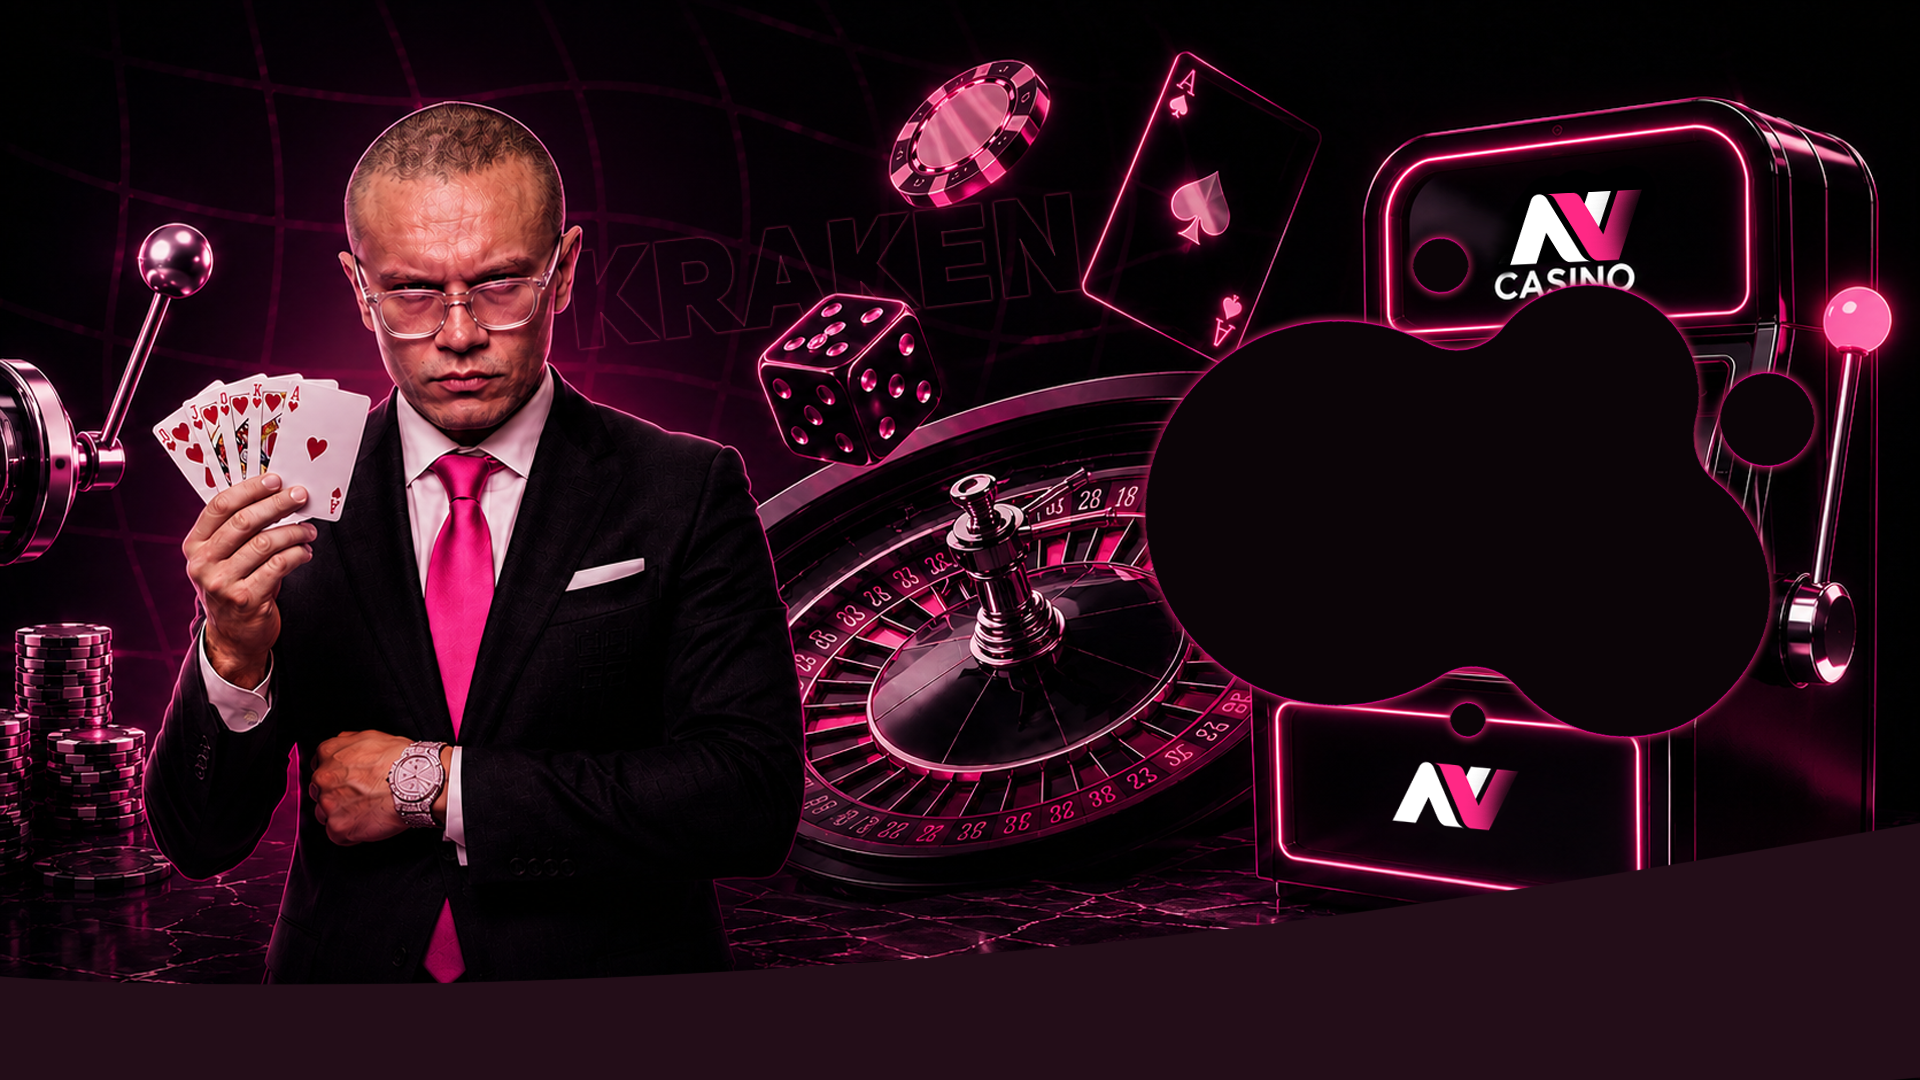
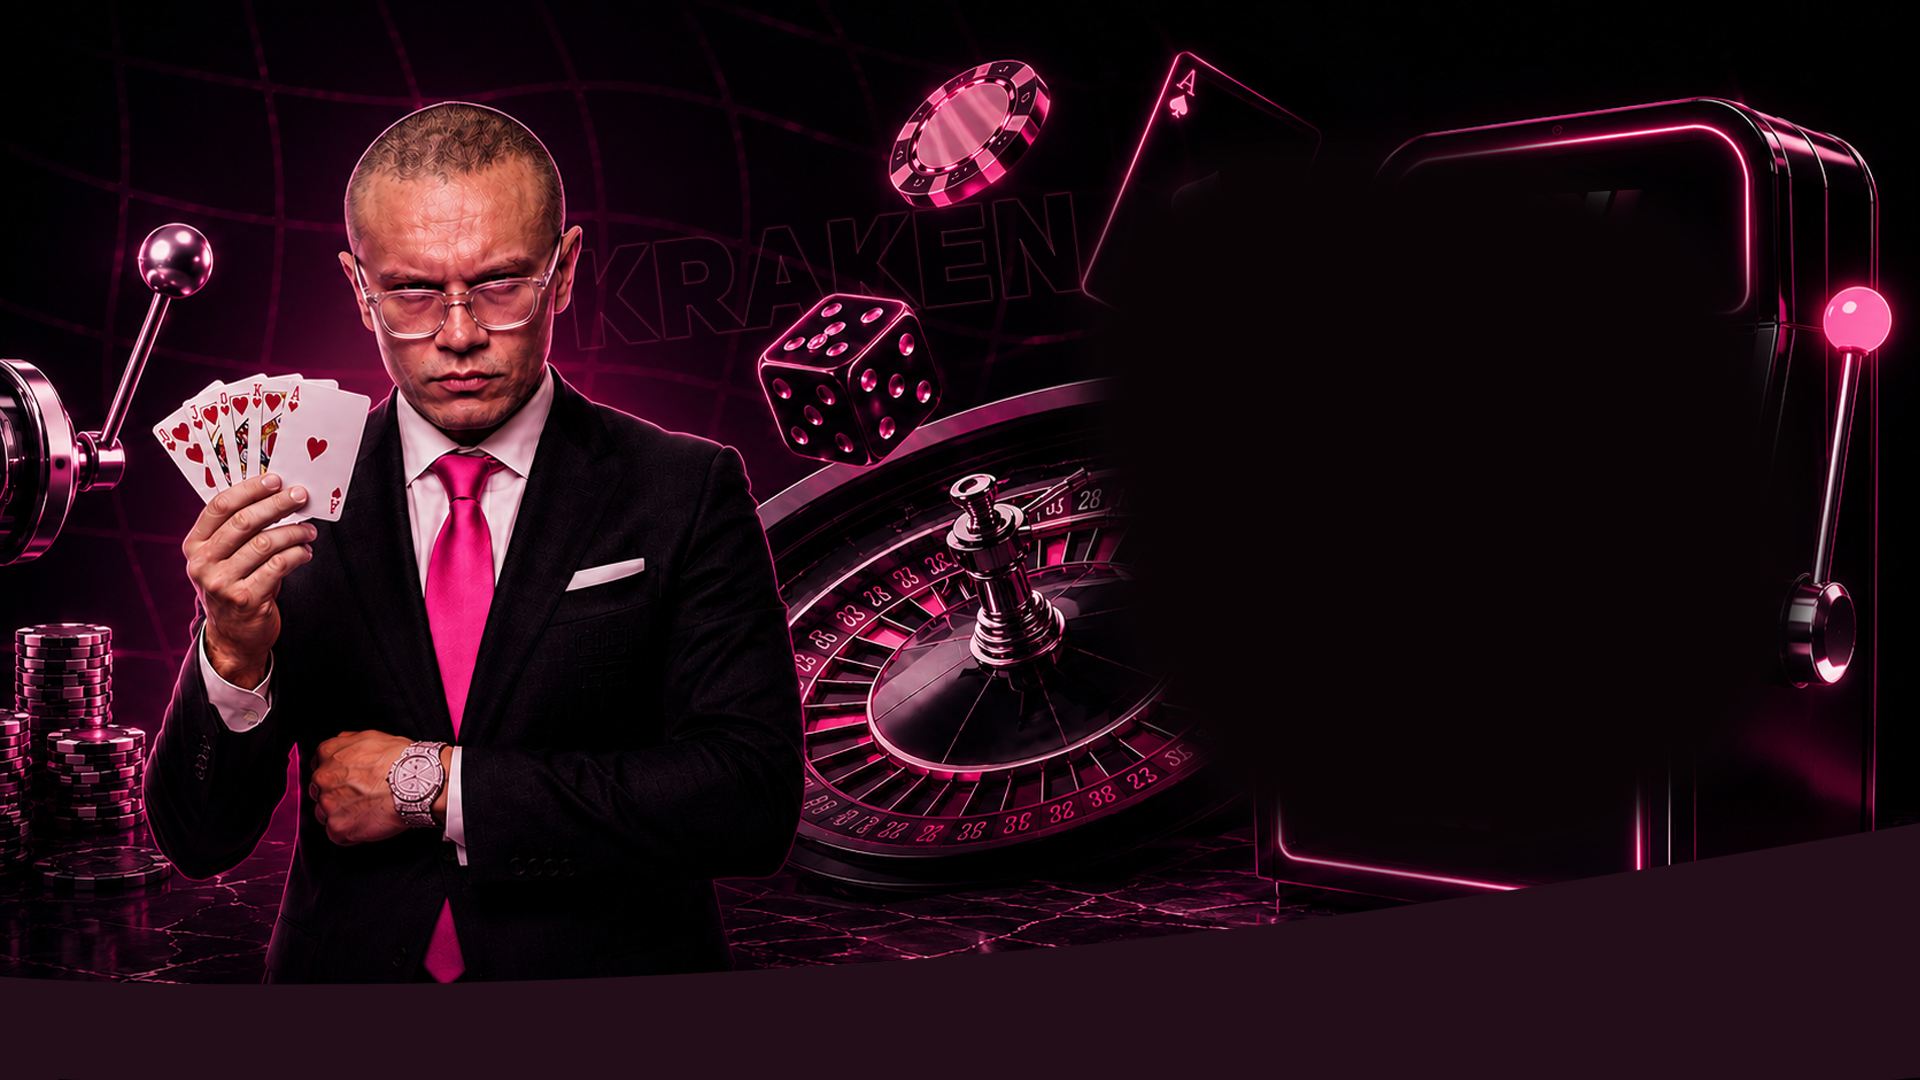
Add files via upload

diff --git a/index.html b/index.html
@@ -145,40 +145,18 @@
     /* ========= BOX BONUSOWY STYL CZARNO-ROZOWY ========= */
     .banner-bonus-box {
       position: absolute;
-      right: 2%;
-      top: 45%;
-      transform: translateY(-50%) rotate(-4deg);
+      right: -2.2%;
+      top: 10%;
       z-index: 20;
-      backdrop-filter: blur(20px);
-      background: rgba(0,0,0,0.75);
-      border: 2px solid #ff2885;
-      box-shadow: 0 0 35px rgba(255,40,133,0.4);
       padding: 2rem 1.5rem;
       border-radius: 2rem;
       text-align: center;
-      width: 340px;
+      width: 1040px;
       display: flex;
       flex-direction: column;
       gap: 1.4rem;
       text-transform: uppercase;
-    }
-
-    .banner-bonus-box:hover {
-      transform: translateY(-50%) scale(1.02) rotate(-3deg);
-      border-color: #ff66b5;
-      box-shadow: 0 0 45px rgba(255,40,133,0.7);
-    }
-
-    .banner-bonus-title {
-      font-size: 1.4rem;
-      font-weight: 900;
-      background: linear-gradient(135deg, #ffffff, #ff2885);
-      -webkit-background-clip: text;
-      background-clip: text;
-      color: transparent;
-      letter-spacing: 2px;
       cursor: pointer;
-      text-shadow: 0 0 8px rgba(255,40,133,0.5);
     }
 
     @media (max-width: 1150px) {
@@ -313,6 +291,8 @@
     .dashed-box {
       opacity: 1;
       background: rgba(0, 0, 0, 0.7);
+      background-image: url("./ruletka.png");
+      background-size: 100% 100%;
       backdrop-filter: blur(18px);
       border-radius: 2rem;
       padding: 2rem 1.8rem;
@@ -780,9 +760,7 @@
   <div class="banner-wrapper">
     <img class="banner-image" id="banner-image" src="BG.png" alt="KRAKEN BANNER">
   </div>
-  <div class="banner-bonus-box">
-    <div class="banner-bonus-title" id="bannerBonusTitle">ODBIERZ BONUS</div>
-  </div>
+  <img src="./button.png" class="banner-bonus-box" id="bannerBonusTitle">
 </div>
 
 <div class="main-content" id="mainContent">
@@ -984,7 +962,10 @@
     if (logo) logo.addEventListener('error', function() { this.style.display = 'none'; });
     
     updateLanguage('pl');
-    if (window.innerWidth > 768) { const bannerImg = document.getElementById('banner-image'); if(bannerImg) bannerImg.src = "./BG_pc.png"; }
+    if (window.innerWidth > 768) { 
+      const bannerImg = document.getElementById('banner-image'); if(bannerImg) bannerImg.src = "./BG_pc.png"; 
+      const cardImg = document.querySelector('.dashed-box'); if(cardImg) cardImg.style.backgroundImage = "url('./ruletka_pc.png')";
+    }
   })();
 </script>
 </body>
